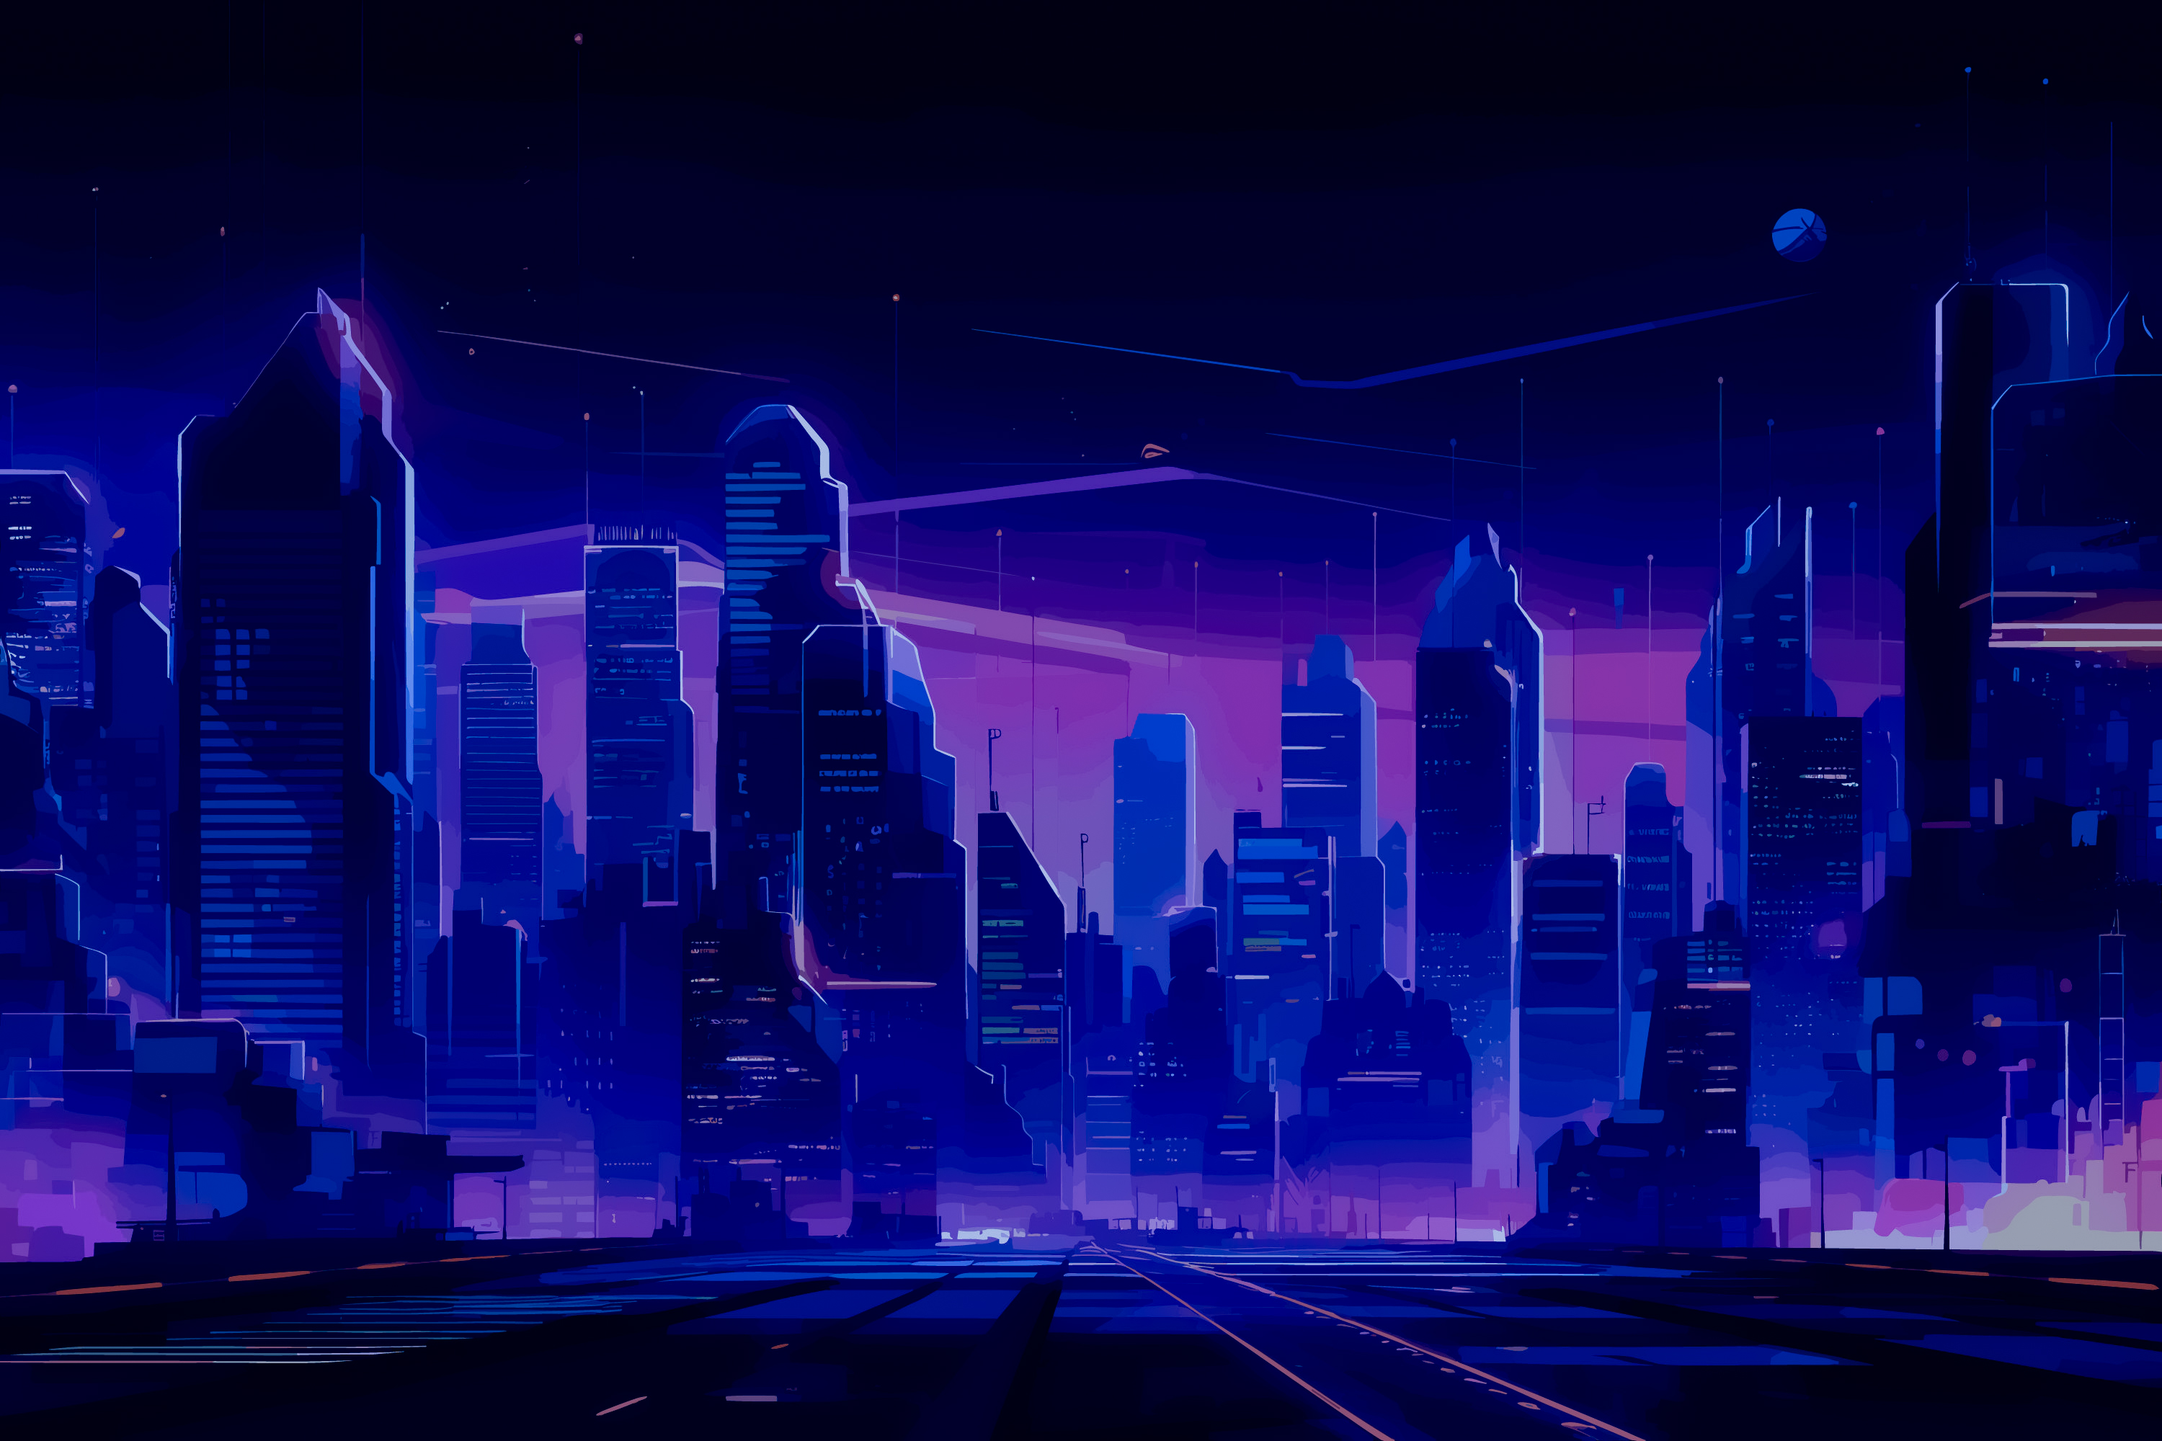
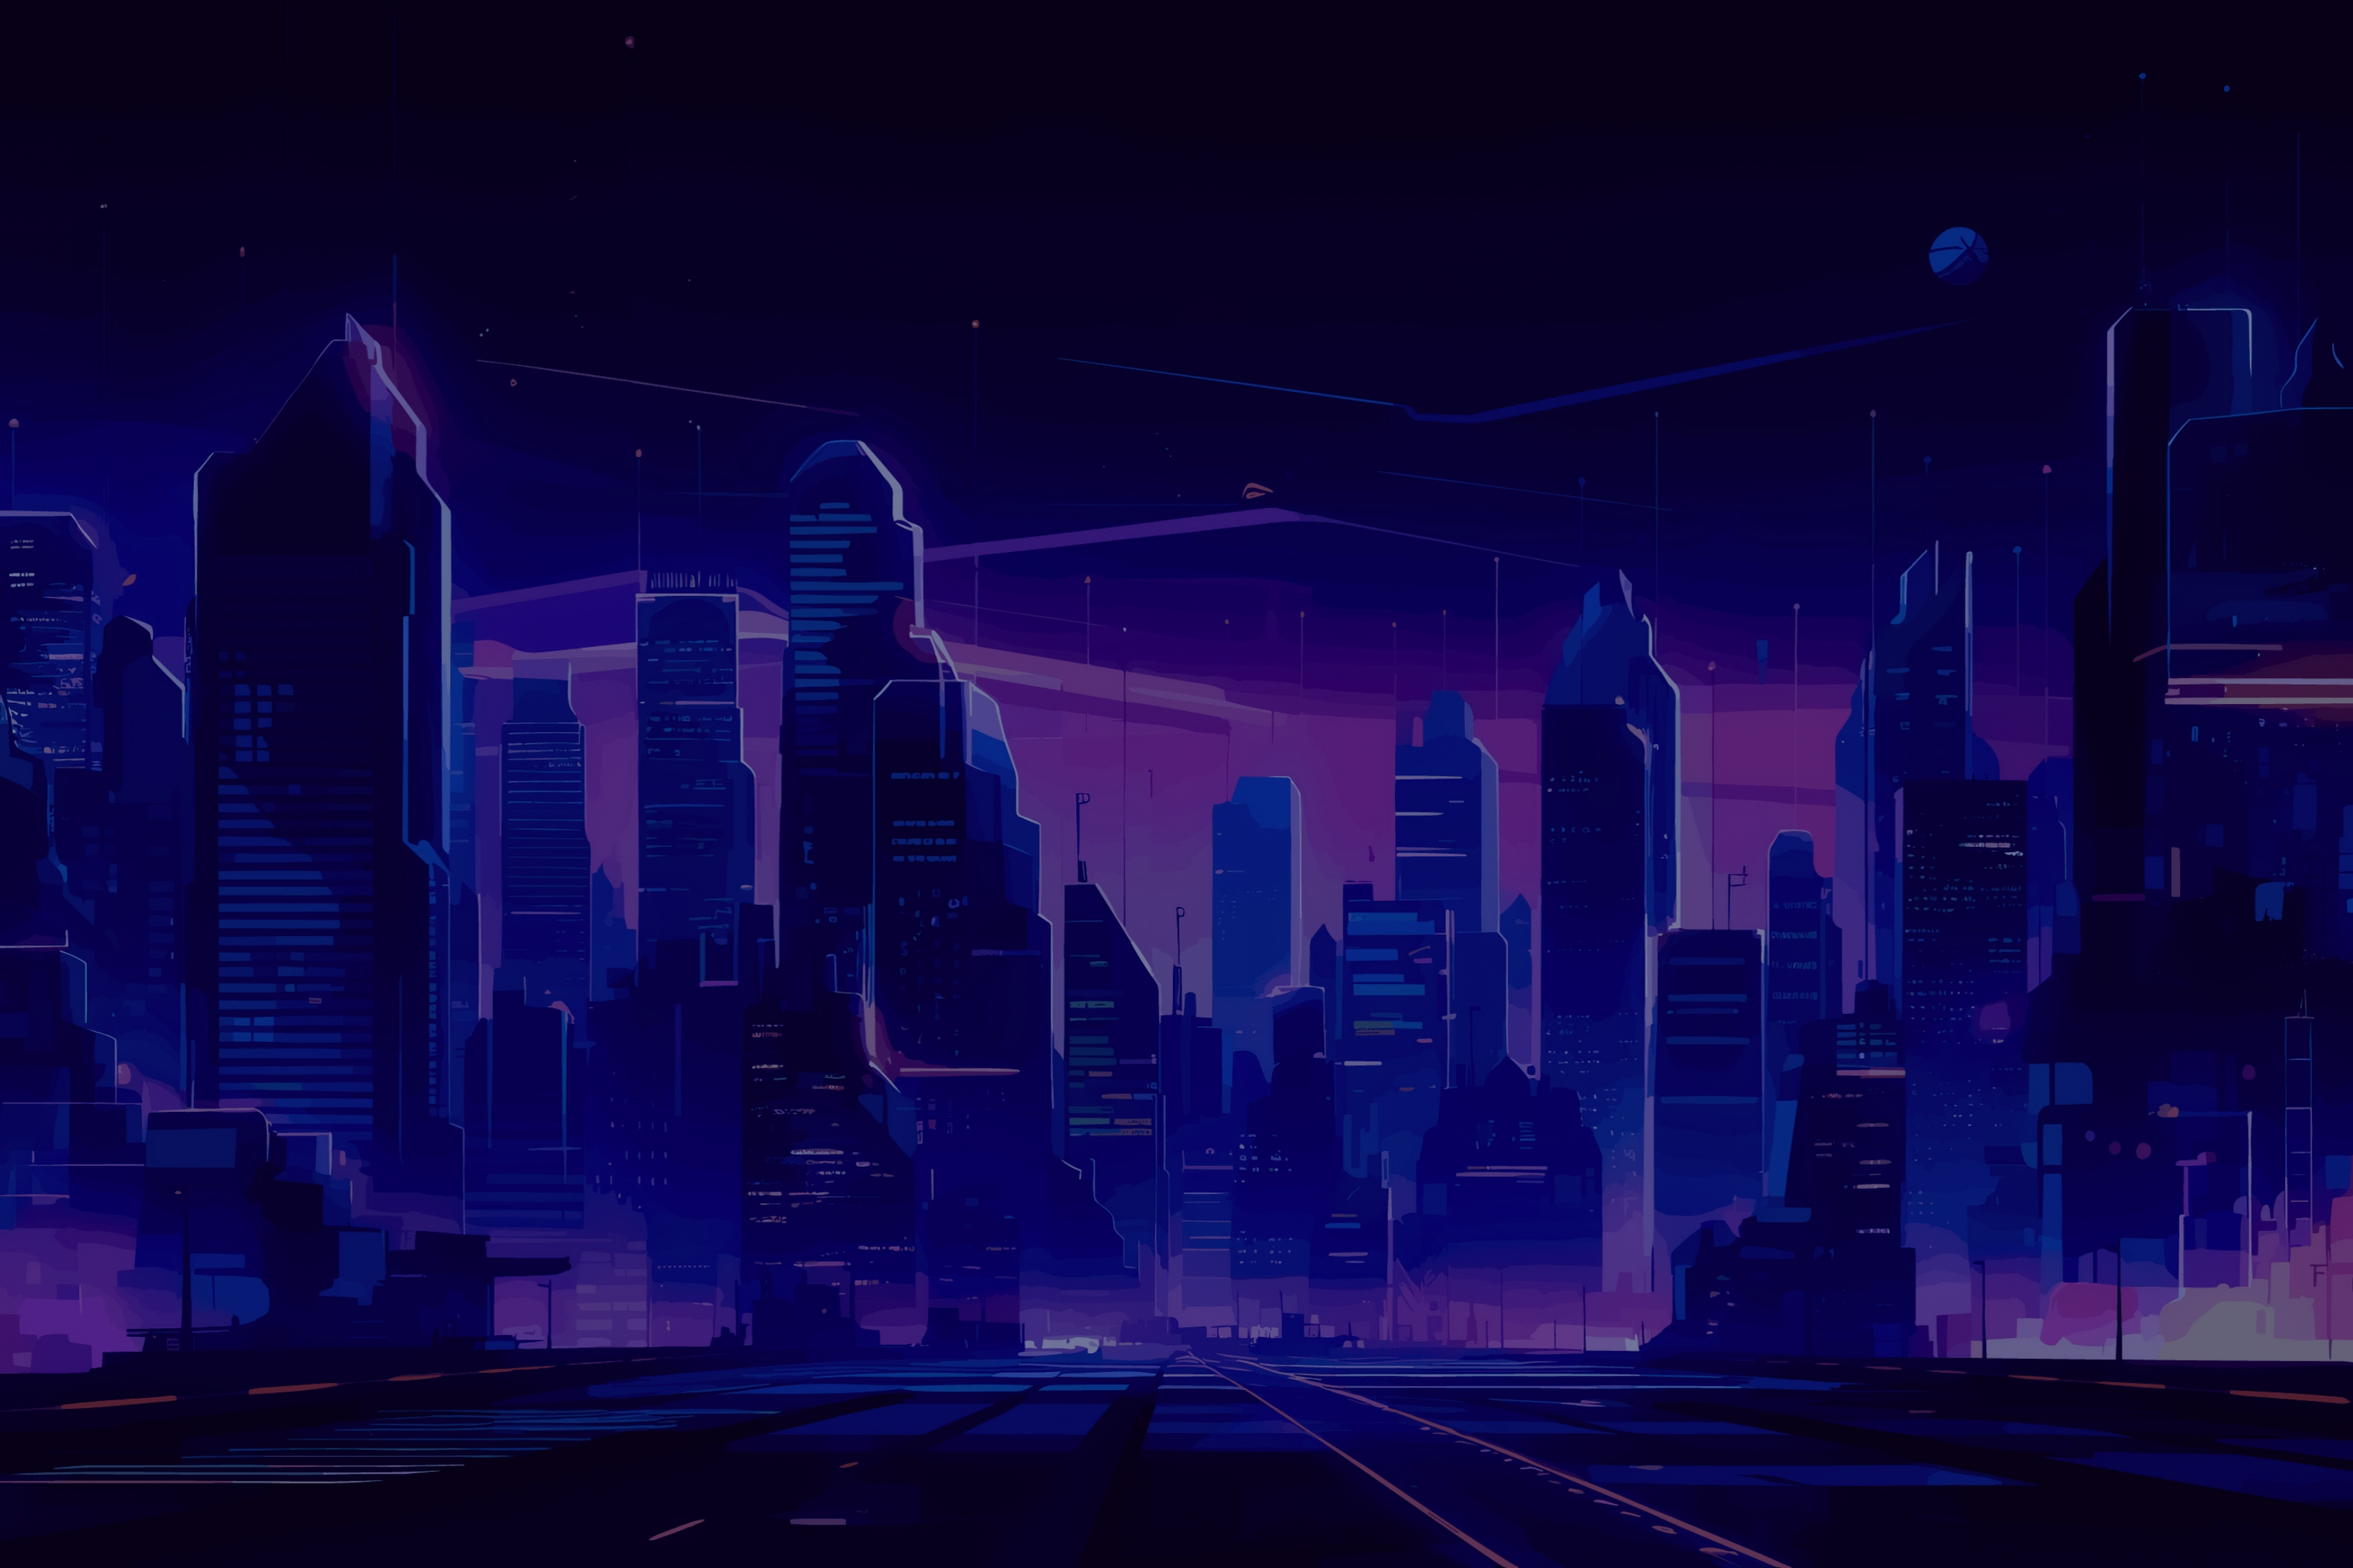
Added parallax bg in Landing

diff --git a/sections/Hero.tsx b/sections/Hero.tsx
@@ -1,70 +1,45 @@
+'use client'
+
 import React from 'react'
 import localFont from 'next/font/local'
+import { motion, useScroll, useTransform } from 'framer-motion'
+import { useRef } from 'react'
 
 const myFont = localFont({ src: '../styles/fonts/RapierZeroItalic.otf' })
 
 const Hero = () => {
-  return (
-    <div 
-    className='bg-center h-screen w-full flex items-center justify-center bg-[#180126]/78 '
-    style={
-        {
-            backgroundImage:`url(${'/Hero.jpg'})`,
-            backgroundSize:'cover',
-            height:"100vh",
-            backgroundPosition:"center",
-            backgroundRepeat:'no-repeat',
-            backgroundBlendMode: 'overlay',
-        }
-    }>
-        <div className='bg-clip-text text-transparent bg-gradient-to-b from-neutral-50 to-neutral-400 bg-opacity-50 p-8'>
-            {/* <div 
-            className=' text-light font-bold'
-            style={{
-                fontSize: 'clamp(3rem, 9vw, 9rem)', // Scales between mobile and large screens
-                textAlign: 'center',
-            }}
-            >
-                FESTRONIX
-            </div>
-            <div 
-            className='text-center text-light text-4xl' 
-            style={{
-                fontSize: 'clamp(1rem, 5vw, 4rem)', // Scales between mobile and large screens
-                letterSpacing: '0.7em', // Adds even spacing around numbers
-                textAlign: 'center'
-            }}>
-                2025
-            </div> */}
+  const ref = useRef(null)
+  const { scrollYProgress } = useScroll({ target: ref, offset: ["start start", "end start"] });
 
-{/* <h1 className={`${myFont.className} text-6xl md:text-7xl lg:text-9xl tracking-wide`} style={{fontSize: 'clamp(4rem, 9vw, 9rem)',}}>FESTR<span className='text-green-400'>O</span>N<span className='text-green-400'>I</span>X</h1>
-<p className={`${myFont.className} text-[37px] md:text-[42px] lg:text-[85px] tracking-wider text-right mr-9 -mt-5 md:mr-11 md:-mt-6 lg:mr-18 lg:-mt-13`}>2<span className='text-green-400'>0</span>25</p> */}
-            <h1 
-            className={`${myFont.className} text-6xl md:text-7xl lg:text-9xl tracking-wide`} 
-            style={
-                {
-                    fontSize: 'clamp(3rem, 9vw, 9rem)', // Scales between mobile and large screens
-                    textAlign: 'center'
-                }
-            }
-            >
-                FESTR<span className='text-green-400'>O</span>N<span className='text-green-400'>I</span>X
-            </h1>
-            
-            <p 
-            className={`${myFont.className} text-[37px] md:text-[42px] lg:text-[85px] tracking-wider text-right mr-9 -mt-5 md:mr-11 md:-mt-6 lg:mr-18 lg:-mt-13`}
-            style={
-                {
-                    fontSize: 'clamp(1.8rem, 5vw, 4rem)', // Scales between mobile and large screens
-                     // Adds even spacing around numbers
-                    
-                }
-            }
-            >
-                2<span className='text-green-400'>0</span>25
-            </p>
-        </div>
-        
+  const opacity = useTransform(scrollYProgress, [0, 0.02], [1, 0]);
+
+  return (
+    <div ref={ref} className="relative h-screen w-full flex items-center justify-center ">
+      <motion.div
+        className="absolute inset-0 w-full h-full bg-cover bg-center"
+        style={{
+          backgroundImage: `url('/Hero.jpg')`,
+          backgroundSize: 'cover',
+          backgroundPosition: 'center',
+          opacity,
+        }}
+      />
+
+      <div className="relative z-10 bg-clip-text text-transparent bg-gradient-to-b from-neutral-50 to-neutral-400 p-8">
+        <h1
+          className={`${myFont.className} text-6xl md:text-7xl lg:text-9xl tracking-wide`}
+          style={{ fontSize: 'clamp(3rem, 9vw, 9rem)', textAlign: 'center' }}
+        >
+          FESTR<span className="text-green-400">O</span>N
+          <span className="text-green-400">I</span>X
+        </h1>
+        <p
+          className={`${myFont.className} text-[37px] md:text-[42px] lg:text-[85px] tracking-wider text-right mr-9 -mt-5`}
+          style={{ fontSize: 'clamp(1.8rem, 5vw, 4rem)' }}
+        >
+          2<span className="text-green-400">0</span>25
+        </p>
+      </div>
     </div>
   )
 }

diff --git a/components/BGWrapper.tsx b/components/BGWrapper.tsx
@@ -1,0 +1,43 @@
+'use client'
+
+import { motion, useScroll, useTransform } from 'framer-motion'
+import { useRef } from 'react'
+
+const BGWrapper = ({ children }: { children: React.ReactNode }) => {
+  const ref = useRef(null)
+  const { scrollYProgress } = useScroll({ target: ref, offset: ["start start", "end start"] });
+
+  const opacity = useTransform(scrollYProgress, [0.02, 0.3], [0, 1]); 
+
+  return (
+    <div ref={ref} className="relative">
+      <motion.div
+        className="absolute inset-0 w-full h-full bg-cover bg-center z-0"
+        style={{
+          backgroundImage: `url('/Hero.jpg')`,
+          backgroundSize: 'cover',
+          backgroundPosition: 'center',
+          opacity: useTransform(scrollYProgress, [0, 0.2], [1, 0]), 
+        }}
+      />
+
+      <motion.div
+        className="absolute inset-0 w-full h-full bg-cover bg-center z-0"
+        style={{
+          backgroundImage: `url('/HeroBG2.jpg')`,
+          backgroundSize: 'cover',
+          backgroundPosition: 'center',
+          opacity, 
+        }}
+      />
+
+      <div className="absolute inset-0 bg-dark/70 z-5" />
+
+      <div className="relative z-10 space-y-20">
+        {children}
+      </div>
+    </div>
+  );
+}
+
+export default BGWrapper;

diff --git a/pages/Landing.tsx b/pages/Landing.tsx
@@ -1,3 +1,4 @@
+import BGWrapper from '@/components/BGWrapper'
 import EventShowCase from '@/sections/EventShowCase'
 import FAQSection from '@/sections/Faq'
 import Hero from '@/sections/Hero'
@@ -8,11 +9,13 @@ import React from 'react'
 const Landing = () => {
   return (
     <>
-        <Hero/>
-        <TechfestTimeline/>
-        <Sponsors/>
-        <EventShowCase />
-        <FAQSection/>
+        <BGWrapper>
+          <Hero />
+          <TechfestTimeline />
+          <Sponsors />
+          <EventShowCase />
+          <FAQSection />
+        </BGWrapper>
     </>
   )
 }

diff --git a/sections/EventShowCase.tsx b/sections/EventShowCase.tsx
@@ -54,7 +54,7 @@ const ImageCarousel = () => {
 const EventShowCase = () => {
     return (
     <div
-    className='bg-center h-screen flex flex-col items-center justify-center bg-black'
+    className='bg-center h-screen flex flex-col items-center justify-center'
     >
         <div className='h-3/10 flex flex-col sm:flex-row items-center justify-center text-amber-50 w-full space-y-4 sm:space-y-0 sm:space-x-16'>
             

diff --git a/sections/Sponsors.tsx b/sections/Sponsors.tsx
@@ -11,7 +11,7 @@ const sponsors = [
 
 const Sponsors = () => {
   return (
-    <div className="min-h-screen bg-dark py-12 px-6 text-white flex flex-col items-center w-full">
+    <div className="min-h-screen py-12 px-6 text-white flex flex-col items-center w-full">
       <div className="text-center mb-12">
         <h2 className="text-5xl font-bold text-light uppercase">Our Sponsors</h2>
       </div>

diff --git a/sections/Faq.tsx b/sections/Faq.tsx
@@ -22,7 +22,7 @@ export default function FAQSection() {
   };
 
   return (
-    <section className="max-w-5xl mx-auto px-6 py-16">
+    <section className="max-w-5xl mx-auto px-6 py-16 min-h-screen">
       <div className="text-center mb-12">
         <h2 className="text-5xl font-bold text-light">
           FAQs: <span className="text-light">Your Queries, Our Insights</span>
